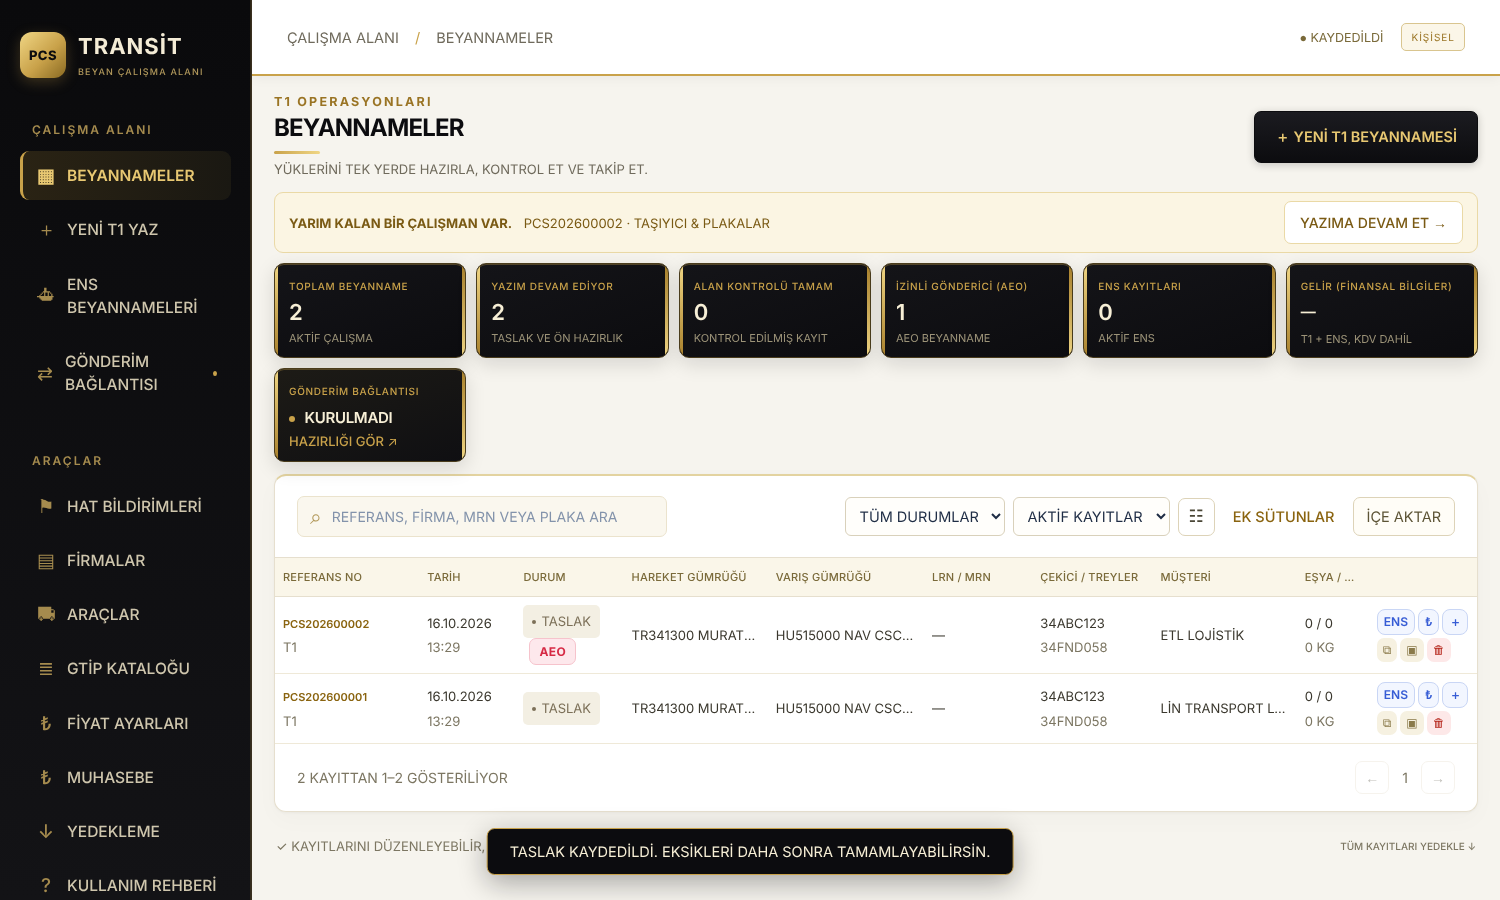
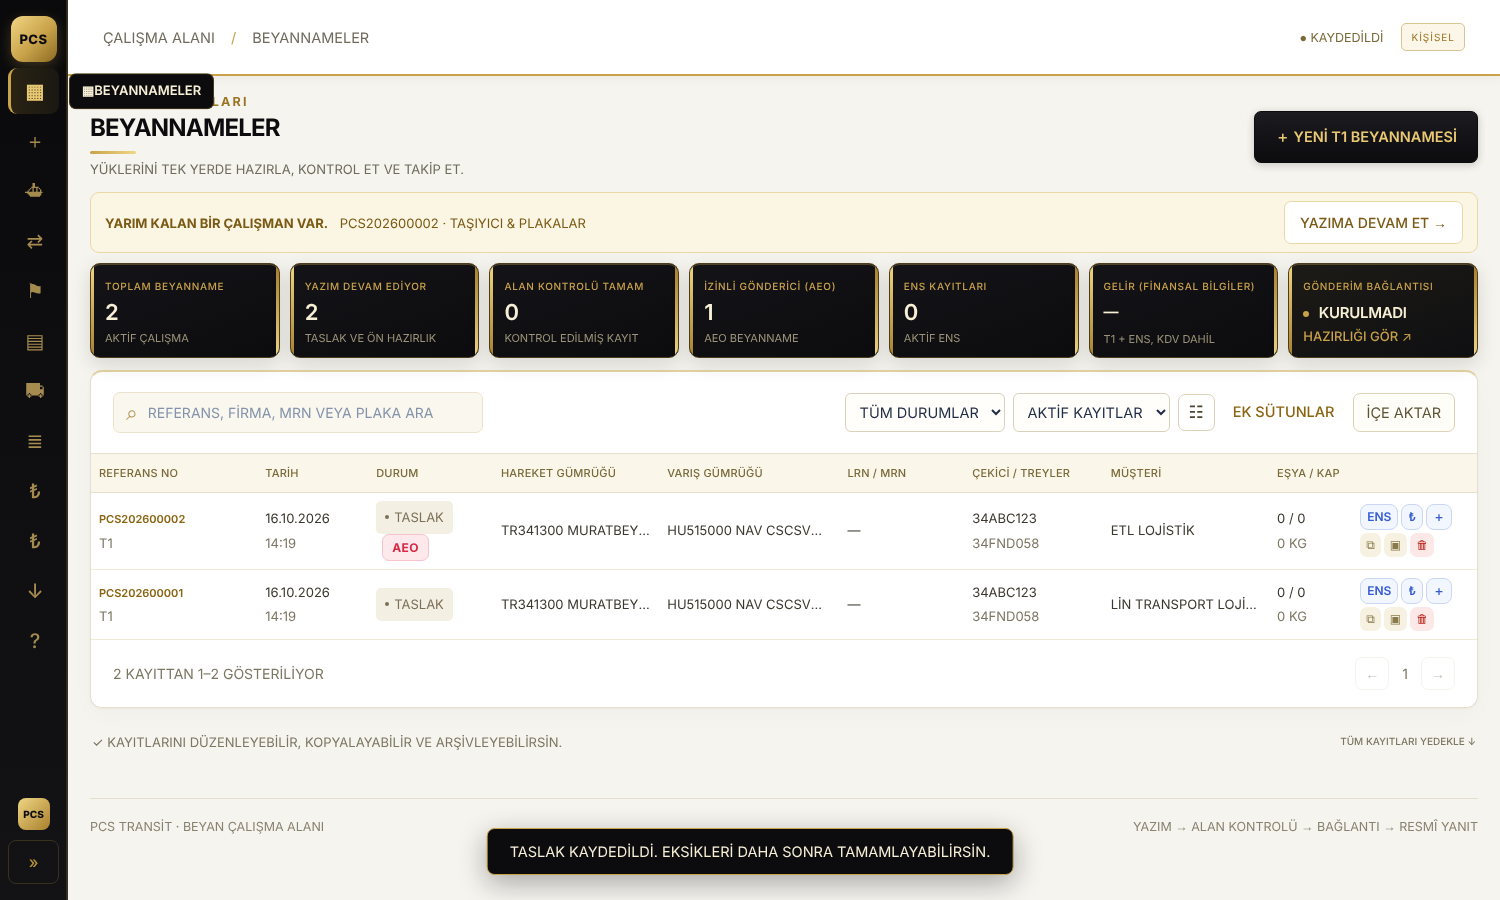
Sağ özet paneli ve alt toplam şeridi kaldırıldı; geniş ferah eşya tablosu; dar ikon menü
Claude-Session: https://claude.ai/code/session_0131aE7XCffjHkh7CXKLT4XM

diff --git a/workspace.js b/workspace.js
@@ -67,8 +67,7 @@ function shortName(v,max=30){let s=String(v||'').replace(/\s+/g,' ').trim();for(
 function renderGoods(){const t=totals(work.records);$('#goodsEmpty').hidden=!!t.count;const money=v=>v.toLocaleString('tr-TR',{minimumFractionDigits:2,maximumFractionDigits:2}),sums={};
  for(const g of work.records){const a=num(g.amount);if(a&&g.currency)sums[g.currency]=(sums[g.currency]||0)+a}
  const ib=(act,id,label,title)=>'<button type="button" class="ico" data-good="'+act+'" data-id="'+id+'" title="'+title+'" aria-label="'+title+'">'+label+'</button>';
- $('#goodsCards').innerHTML=work.records.length?'<div class="glWrap"><table class="gl"><colgroup><col style="width:27%"><col style="width:23%"><col style="width:7%"><col style="width:13%"><col style="width:14%"><col style="width:16%"></colgroup><thead><tr><th>İhracat beyanname no</th><th>Gönderici → Alıcı</th><th class="r">Kap</th><th class="r">Brüt / Net kg</th><th class="r">Fatura tutarı</th><th></th></tr></thead><tbody>'+work.records.map((g,i)=>{const issues=goodProblems(g,i);
-  return '<tr><td><div class="glCell"><span class="glNo">'+(i+1)+'</span><span class="glMrn"><button type="button" class="ref" data-good="edit" data-id="'+g.id+'" title="Düzenle">'+esc(g.mrn||'MRN girilmedi')+'</button>'+(issues.length?'<small class="glWarn" title="'+issues.length+' alan eksik veya kontrol edilecek">⚠ '+issues.length+' kontrol</small>':'<small class="glOk">✓ hazır</small>')+'</span></div></td><td>'+['sender','receiver'].map(side=>{const nm=g[side],loc=[g[side+'City'],g[side+'Country']].filter(Boolean).join(' / ');return '<div class="glParty'+(side==='receiver'?' to':'')+'" title="'+esc(nm)+'"><span class="glPname">'+(side==='receiver'?'→ ':'')+'<strong>'+esc(shortName(nm)||'—')+'</strong>'+(loc?'<small>'+esc(loc)+'</small>':'')+'</span><button type="button" class="ico pedit" data-good="party" data-side="'+side+'" data-id="'+g.id+'" title="'+(side==='sender'?'Göndericiyi':'Alıcıyı')+' düzenle" aria-label="Firmayı düzenle">✎</button></div>'}).join('')+'</td><td class="r"><span class="glKap">'+fmt(num(g.packages)||0)+'</span></td><td class="r"><strong>'+fmt(num(g.gross)||0)+'</strong><small>'+fmt(num(g.net)||0)+' net</small></td><td class="r">'+(num(g.amount)?'<strong>'+money(num(g.amount))+'</strong><small>'+esc(g.currency||'')+'</small>':'—')+'</td><td class="glAct">'+ib('edit',g.id,'✎','Düzenle')+ib('hat',g.id,'Hat','Hat bildirimi aç')+ib('clone',g.id,'⧉','Ek kayıt: aynı plakaya yeni kayıt')+ib('remove',g.id,'✕','Sil')+'</td></tr>'}).join('')+'</tbody><tfoot><tr><td><strong>Toplam</strong> · '+t.count+' beyanname</td><td></td><td class="r"><strong>'+fmt(t.packages)+'</strong></td><td class="r"><strong>'+fmt(t.gross)+'</strong><small>'+fmt(t.net)+' net</small></td><td class="r"><strong>'+(Object.entries(sums).map(([c,v])=>money(v)+' '+esc(c)).join('<br>')||'—')+'</strong></td><td></td></tr></tfoot></table></div>':'';
+ $('#goodsCards').innerHTML=work.records.length?'<div class="glxWrap"><table class="glx"><thead><tr><th class="no">Kalem No</th><th>GTİP / Ürün tanımı</th><th>Gönderici</th><th>Alıcı</th><th>İhracat beyan no</th><th class="r">Fatura tutarı</th><th class="r">Brüt / Net kg · Kap</th><th></th></tr></thead><tbody>'+work.records.map((g,i)=>{const issues=goodProblems(g,i);const party=side=>{const nm=g[side],loc=[g[side+'Address'],[g[side+'City'],g[side+'Country']].filter(Boolean).join('/')].filter(Boolean).join(' · ');return '<td><div class="glxParty"><span class="glxName" title="'+esc(nm)+'"><strong>'+esc(nm||'—')+'</strong><small title="'+esc(loc)+'">'+esc(loc)+'</small></span><button type="button" class="ico pedit" data-good="party" data-side="'+side+'" data-id="'+g.id+'" title="Firmayı düzenle" aria-label="Firmayı düzenle">✎</button></div></td>'};return '<tr><td class="no"><button type="button" class="glxNo" data-good="edit" data-id="'+g.id+'" title="Düzenle">'+(i+1)+'</button></td><td><button type="button" class="ref" data-good="edit" data-id="'+g.id+'">'+esc(g.gtip||'GTİP yok')+'</button><small>'+esc(g.description||'')+'</small></td>'+party('sender')+party('receiver')+'<td>'+esc(g.mrn||'MRN girilmedi')+(issues.length?'<small class="glWarn" title="'+issues.length+' alan eksik veya kontrol edilecek">⚠ '+issues.length+' kontrol</small>':'<small class="glOk">✓ hazır</small>')+'</td><td class="r">'+(num(g.amount)?money(num(g.amount))+' '+esc(g.currency||''):'—')+'</td><td class="r">'+fmt(num(g.gross)||0)+' kg / '+fmt(num(g.net)||0)+' kg<small>'+fmt(num(g.packages)||0)+' '+esc(g.packageType||'KAP')+'</small></td><td class="glAct">'+ib('edit',g.id,'✎','Düzenle')+ib('hat',g.id,'Hat','Hat bildirimi aç')+ib('clone',g.id,'⧉','Ek kayıt: aynı plakaya yeni kayıt')+ib('remove',g.id,'✕','Sil')+'</td></tr>'}).join('')+'</tbody><tfoot><tr><td></td><td><strong>Toplam</strong> · '+t.count+' eşya</td><td></td><td></td><td></td><td class="r"><strong>'+(Object.entries(sums).map(([c,v])=>money(v)+' '+esc(c)).join('<br>')||'—')+'</strong></td><td class="r"><strong>'+fmt(t.gross)+' kg / '+fmt(t.net)+' kg</strong><small>'+fmt(t.packages)+' kap</small></td><td></td></tr></tfoot></table></div>':'';
  $('#goodsTotals').innerHTML='<span><strong>'+t.count+'</strong>eşya satırı</span><span><strong>'+fmt(t.gross)+'</strong>kg brüt</span><span><strong>'+fmt(t.net)+'</strong>kg net</span><span><strong>'+fmt(t.packages)+'</strong>kap</span>'}
 const goodSchema=[['Eşya ve ihracat beyannamesi',[['mrn','İhracat MRN *','text','Belgedeki gerçek numara'],['gtip','İlk kalemin GTİP’i *','text','8 hane'],['description','Sade ticari tanım *','textarea','Farklı mal cinslerini - ile ayır'],['gross','Toplam brüt / kg *','number','Örn. 1.162,86'],['net','Toplam net / kg *','number','Örn. 1.100,00'],['packages','Toplam kap *','number','Örn. 40']]],['Gönderici ve alıcı',[['sender','Gönderici firma *','text','Beyanname kutu 2'],['receiver','Alıcı firma *','text','Beyanname kutu 8'],['receiverCountry','Alıcı ülke kodu *','country','Örn. RO'],['receiverCity','Alıcı şehir','text','']]],['Fatura bilgileri',[['invoice','Fatura no *','text','Birden fazlaysa - ile ayır'],['invoiceDate','Fatura tarihi *','date'],['amount','Toplam fatura tutarı *','number','Örn. 12.450,50'],['currency','Fatura dövizi *','select',['',...currencies]]]]];
 goodSchema[0][1]=goodSchema[0][1].filter(f=>f[0]!=='packages');{const money=goodSchema[2][1].filter(f=>['amount','currency'].includes(f[0]));goodSchema[0][1].push(...money);goodSchema.splice(2,1)}
@@ -143,3 +142,8 @@ $('#printT1').onclick=()=>{work.values=readForm();printHtml((work.ref||'T1')+' T
  let dlg=document.getElementById('cmrDialog');if(!dlg){dlg=document.createElement('dialog');dlg.id='cmrDialog';document.body.append(dlg)}
  dlg.innerHTML='<h2>Toplu CMR</h2><p>Bu T1\'de '+groups.length+' farklı gönderici / alıcı çifti var. Her çift için ayrı CMR hazırlanır (her biri kendi sayfasında).</p><div class="cmrPick">'+groups.map((gr,i)=>'<label><input type="checkbox" data-i="'+i+'" checked><span><b>'+esc(gr.sender||'Gönderici yok')+'</b> → '+esc(gr.receiver||'Alıcı yok')+'<small>'+gr.goods.length+' eşya · '+gr.goods.map(g=>g.mrn).filter(Boolean).slice(0,3).join(', ')+'</small></span><button type="button" class="quiet" data-one="'+i+'">Yalnız bunu yazdır</button></label>').join('')+'</div><div class="dialogactions"><button type="button" data-close>Kapat</button><button type="button" class="primary" data-all>Seçilenleri yazdır</button></div>';
  dlg.onclick=e=>{if(e.target.closest('[data-close]')){dlg.close();return}const one=e.target.closest('[data-one]');if(one){e.preventDefault();printHtml((work.ref||'T1')+' CMR',cmr(work.values,groups[Number(one.dataset.one)].goods,work.ref));return}if(e.target.closest('[data-all]')){const sel=[...dlg.querySelectorAll('input[data-i]:checked')].map(x=>groups[Number(x.dataset.i)]);if(!sel.length){toast('En az bir CMR seç.');return}dlg.close();printHtml((work.ref||'T1')+' CMR',cmrAll(work.values,sel,work.ref))}};dlg.showModal()};
+
+// Dar ikon menü: ad ipuçları ve aç/kapa düğmesi
+{const side=document.querySelector('.sidebar'),setTitles=()=>side.querySelectorAll('.nav').forEach(n=>{if(!n.title)n.title=n.textContent.trim()}),wide=()=>{try{return localStorage.getItem('t1-nav-wide')==='1'}catch{return false}};
+setTitles();new MutationObserver(setTitles).observe(side,{childList:true,subtree:true});document.body.classList.toggle('navWide',wide());
+const t=document.createElement('button');t.type='button';t.className='navToggle';t.title='Menüyü genişlet / daralt';t.textContent=document.body.classList.contains('navWide')?'«':'»';t.onclick=()=>{const w=document.body.classList.toggle('navWide');t.textContent=w?'«':'»';try{localStorage.setItem('t1-nav-wide',w?'1':'0')}catch{}};side.append(t)}

diff --git a/workspace.css b/workspace.css
@@ -364,3 +364,31 @@ main{max-width:none!important;padding:16px 22px!important}
 .partyToggle:hover{background:#f3e4b3}
 .glParty{display:flex;align-items:center;justify-content:space-between;gap:6px}.glPname{min-width:0;overflow:hidden;text-overflow:ellipsis;white-space:nowrap}.glPname small{display:block;font-size:11.5px;color:#8a7a4a;font-weight:400}
 .glParty .pedit{padding:3px 8px;font-size:13px;border:1px solid #e6dfce;background:#fffdf7;color:#6a5a2a;border-radius:6px;flex:0 0 auto}.glParty .pedit:hover{background:#f0e2b4}
+/* Düzenleyici: sağ özet paneli ve alt toplam şeridi kaldırıldı; tam genişlik */
+.summaryrail{display:none!important}.editorlayout{grid-template-columns:minmax(0,1fr)!important}
+#goodsTotals,#goodsTotals+.info{display:none!important}
+/* Geniş ve ferah eşya tablosu */
+.glxWrap{background:#fff;border:1px solid var(--line);border-radius:12px;overflow:auto}
+.glx{width:100%;border-collapse:collapse;font-size:14.5px}
+.glx th{text-align:left;font-weight:600;font-size:13px;color:#4a3d16;padding:16px 18px;border-bottom:1px solid #e7e0c8;white-space:nowrap;background:#fffdf7}
+.glx td{padding:20px 18px;border-bottom:1px solid #f1ecdc;vertical-align:middle;color:#17150f}
+.glx small{display:block;margin-top:4px;color:#7c7662;font-size:12.5px;font-weight:400}
+.glx .r{text-align:right}.glx .no{width:72px;text-align:center}
+.glx tbody tr:hover td{background:#fdfaf0}
+.glx tfoot td{border-bottom:0;background:#faf6e9;font-size:14.5px;padding:16px 18px}
+.glxNo{width:32px;height:32px;padding:0;border-radius:50%;border:1px solid #e0cf99;background:#f6edd2;color:#7a5a14;font-weight:700}
+.glx .ref{border:0;background:none;padding:0;font-weight:700;color:#8a6410;font-size:14.5px}
+.glx td:nth-child(2) small{max-width:280px;white-space:nowrap;overflow:hidden;text-overflow:ellipsis}
+.glxParty{display:flex;align-items:center;gap:10px;justify-content:space-between}.glxName{min-width:0;max-width:260px}.glxName strong{display:block;font-weight:600;overflow:hidden;text-overflow:ellipsis;white-space:nowrap}.glxName small{overflow:hidden;text-overflow:ellipsis;white-space:nowrap}
+.glx .pedit{padding:4px 9px;font-size:13px;border:1px solid #e6dfce;background:#fffdf7;color:#6a5a2a;border-radius:6px;flex:0 0 auto}.glx .pedit:hover{background:#f0e2b4}
+.glx .glAct{white-space:nowrap;text-align:right}
+/* İkon çubuğu: dar sol menü (üzerine gelince ad görünür) */
+@media(min-width:0){body:not(.navWide) .sidebar{width:68px!important;padding:16px 8px!important;align-items:center}
+ body:not(.navWide) .shell{margin-left:68px!important}
+ body:not(.navWide) .brand span:not(.brandmark),body:not(.navWide) .navlabel,body:not(.navWide) .sidebarbottom p,body:not(.navWide) .localdot,body:not(.navWide) .user>div,body:not(.navWide) .nav .navdot{display:none!important}
+ body:not(.navWide) .brand{justify-content:center;gap:0}
+ body:not(.navWide) .nav{font-size:0!important;justify-content:center;padding:13px 0!important;width:100%;margin-bottom:4px;gap:0;position:relative}
+ body:not(.navWide) .nav>span:first-child{font-size:20px!important;width:auto}
+ body:not(.navWide) .sidebarbottom{padding:14px 0 0!important}body:not(.navWide) .user{justify-content:center;border:0!important;padding-top:10px}
+ body:not(.navWide) .nav:hover::after{content:attr(title);position:absolute;left:calc(100% + 10px);top:50%;transform:translateY(-50%);background:#0c0c0f;color:#f7efd6;font-size:13px;padding:7px 12px;border-radius:7px;white-space:nowrap;z-index:50;border:1px solid #b8923a55}
+ .navToggle{margin-top:10px;width:100%;padding:9px 0;font-size:16px;background:none;border:1px solid #3a3020;color:#b8923a;border-radius:8px}}
